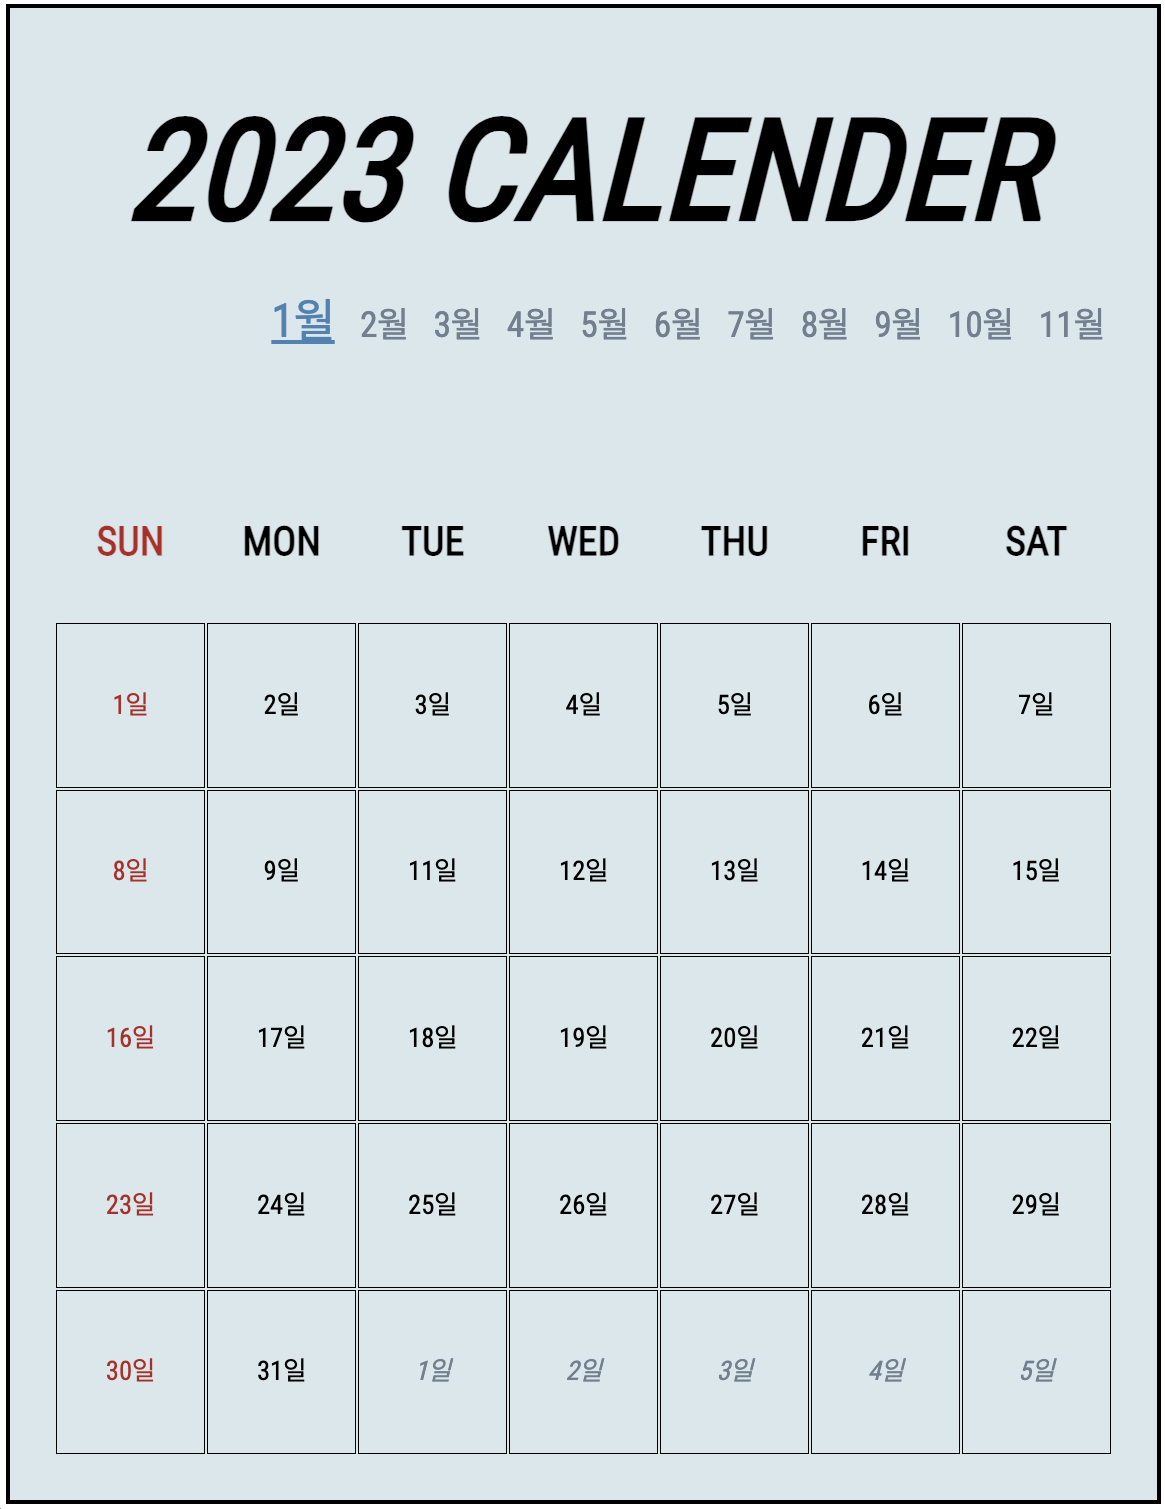
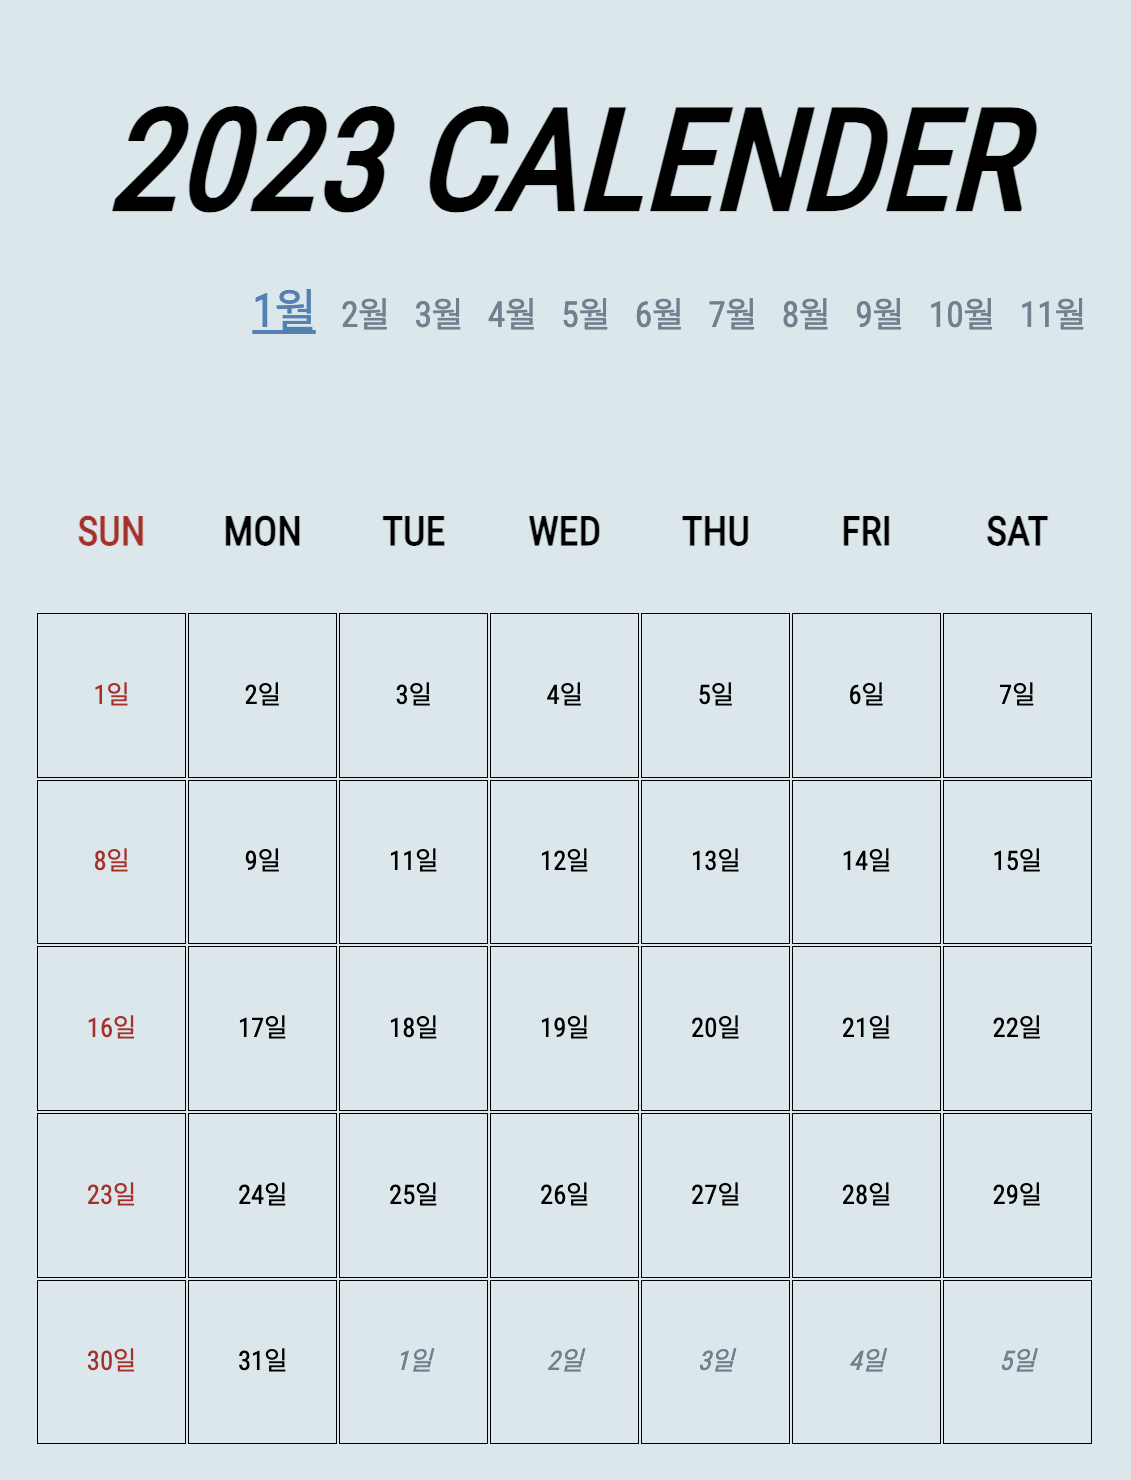
TIL_230119

diff --git a/CSS.md b/CSS.md
@@ -21,7 +21,7 @@
 
 #### <b>실습코드</b>
 
-![실습결과물](./1%EC%9B%94%EB%8B%AC%EB%A0%A5.png){:width="50" height ="100"}
+![실습결과물](./1%EC%9B%94%EB%8B%AC%EB%A0%A5.png)
 
 ```html
 <!DOCTYPE html>
